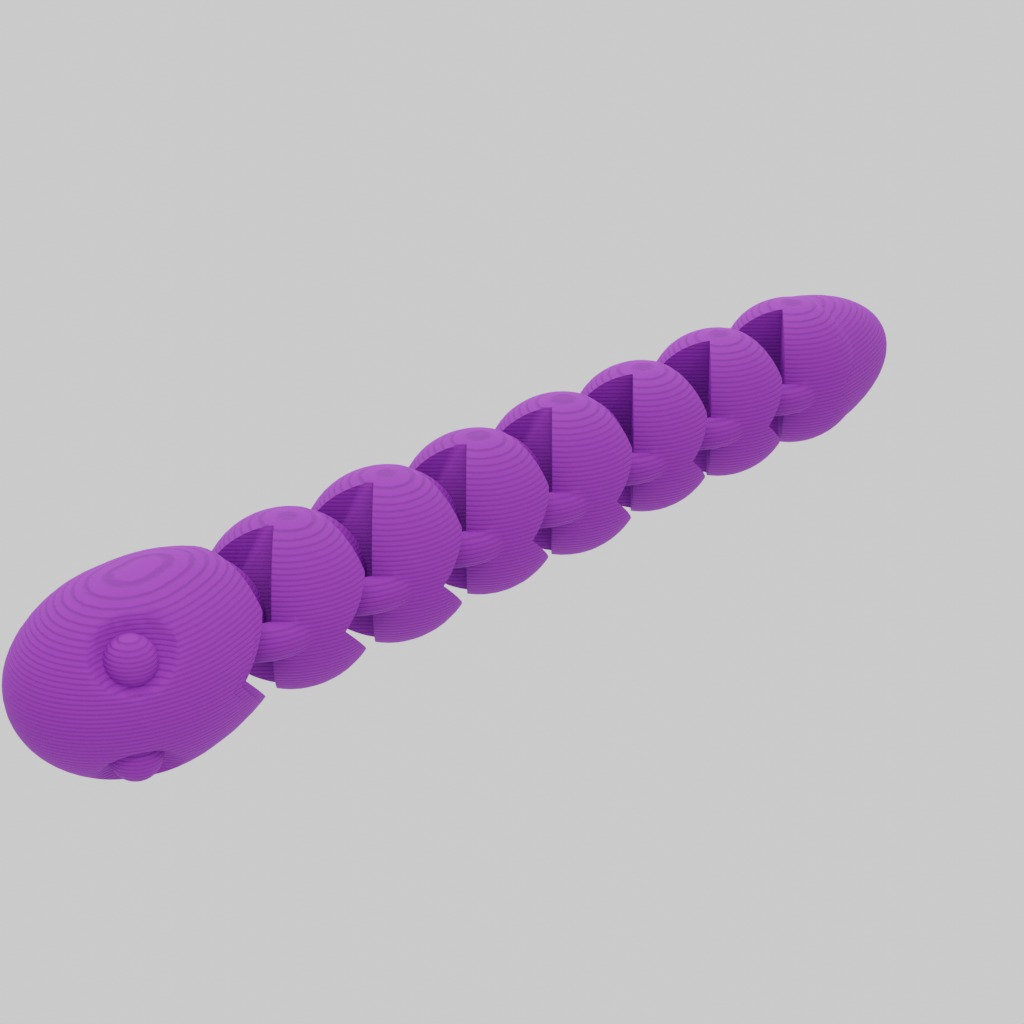
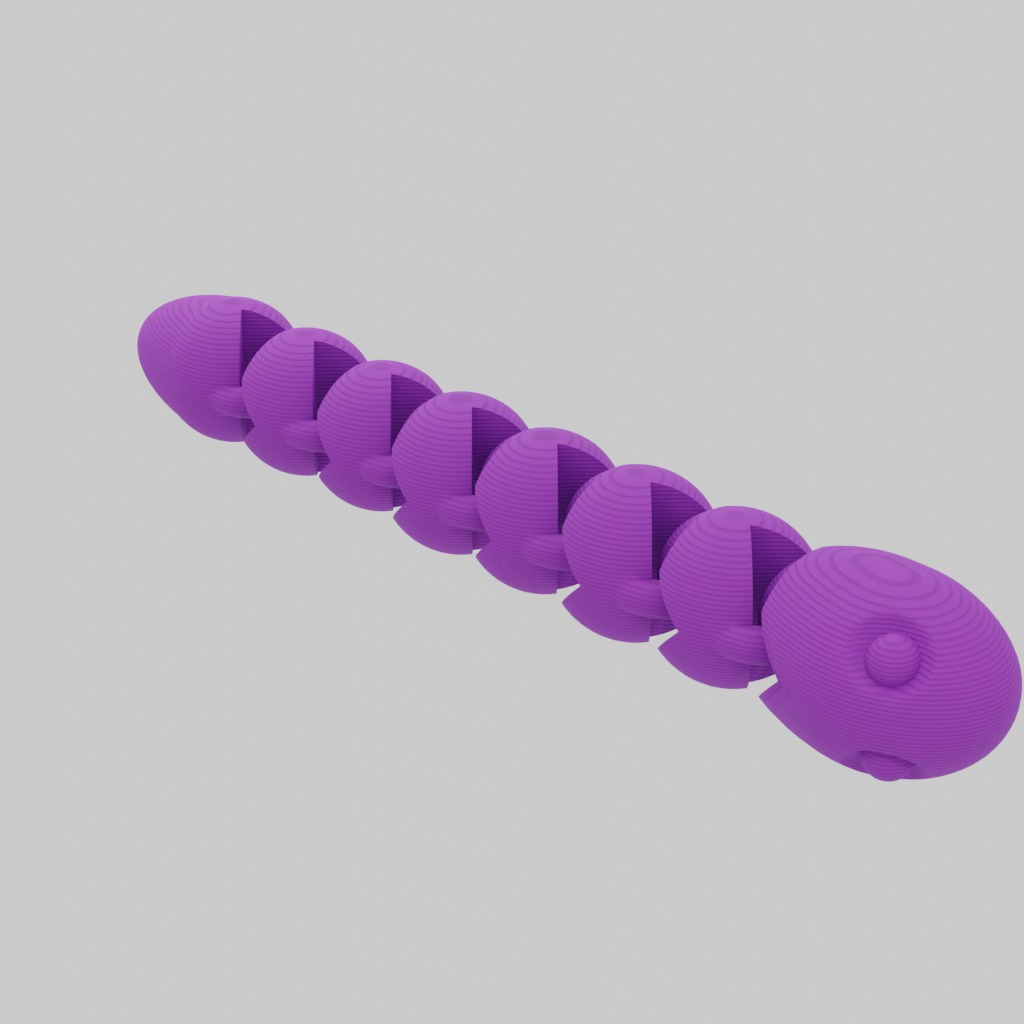
fix: correct orientations for 5 products using MakerWorld reference
- rocktopus: ry=180 reveals The Rock face toward camera
- cute-octopus: ry=180, rz=180 — best centered view
- cute-snakey: ry=0, rz=180 — distinct head clearly visible
- octopus-long-tentacles: rx=0 (flat), rz=90 — top-down spread view
- flex-slug: ry=0, rz=90 — side profile with antennae visible

Changed region(s): [[0.0, 0.2812, 1.0, 0.7812]]

diff --git a/scripts/render-previews-ry.py b/scripts/render-previews-ry.py
@@ -1,0 +1,80 @@
+"""
+Render a single STL at all 4 Z rotations with a specified rot_y.
+Usage: blender --background --python render-previews-ry.py -- STL OUT_DIR ROT_X ROT_Y SUFFIX
+"""
+import sys, math, os, bpy
+
+argv = sys.argv
+after = argv[argv.index("--") + 1:] if "--" in argv else []
+stl_path = after[0]
+out_dir   = after[1]
+rot_x     = float(after[2])
+rot_y     = float(after[3])
+suffix    = after[4] if len(after) > 4 else ""
+hex_color = "#2563EB"
+
+def hex_to_linear(h):
+    h = h.lstrip('#')
+    r, g, b = [int(h[i:i+2], 16)/255 for i in (0, 2, 4)]
+    def srgb(c):
+        return c/12.92 if c <= 0.04045 else ((c+0.025)/1.025)**2.4
+    return (srgb(r), srgb(g), srgb(b), 1.0)
+
+scene = bpy.context.scene
+scene.render.engine           = 'CYCLES'
+scene.cycles.samples          = 32
+scene.render.resolution_x     = 256
+scene.render.resolution_y     = 256
+scene.render.resolution_percentage = 100
+scene.render.image_settings.file_format = 'JPEG'
+scene.render.image_settings.quality     = 85
+bpy.data.worlds['World'].node_tree.nodes['Background'].inputs[0].default_value = (0.95, 0.95, 0.95, 1)
+bpy.data.worlds['World'].node_tree.nodes['Background'].inputs[1].default_value = 3.0
+
+slug = os.path.splitext(os.path.basename(stl_path))[0]
+
+for rot_z in [0, 90, 180, 270]:
+    bpy.ops.object.select_all(action='SELECT')
+    bpy.ops.object.delete(use_global=False)
+
+    bpy.ops.import_mesh.stl(filepath=stl_path)
+    obj = bpy.context.selected_objects[0]
+    bpy.context.view_layer.objects.active = obj
+
+    obj.rotation_euler = (math.radians(rot_x), math.radians(rot_y), math.radians(rot_z))
+    bpy.ops.object.transform_apply(location=False, rotation=True, scale=True)
+    bpy.ops.object.origin_set(type='ORIGIN_GEOMETRY', center='BOUNDS')
+    obj.location = (0, 0, 0)
+    dim = max(obj.dimensions)
+    if dim > 0:
+        obj.scale = (1/dim, 1/dim, 1/dim)
+    bpy.ops.object.transform_apply(scale=True)
+
+    mat = bpy.data.materials.new(name="P")
+    mat.use_nodes = True
+    bsdf = mat.node_tree.nodes.get("Principled BSDF")
+    bsdf.inputs['Base Color'].default_value = hex_to_linear(hex_color)
+    bsdf.inputs['Roughness'].default_value  = 0.4
+    obj.data.materials.clear()
+    obj.data.materials.append(mat)
+
+    cam_data = bpy.data.cameras.new("Cam")
+    cam_data.lens = 100
+    cam_obj = bpy.data.objects.new("Cam", cam_data)
+    scene.collection.objects.link(cam_obj)
+    cam_obj.location = (1.8, -1.8, 1.3)
+    scene.camera = cam_obj
+    con = cam_obj.constraints.new(type='TRACK_TO')
+    con.target = obj
+    con.track_axis = 'TRACK_NEGATIVE_Z'
+    con.up_axis    = 'UP_Y'
+    bpy.context.view_layer.update()
+
+    bpy.ops.object.light_add(type='SUN', location=(3, -3, 5))
+    bpy.context.active_object.data.energy = 4.0
+
+    label = f"{suffix}-z{rot_z}" if suffix else f"z{rot_z}"
+    out = os.path.join(out_dir, f"{slug}-{label}.jpg")
+    scene.render.filepath = out
+    bpy.ops.render.render(write_still=True)
+    print(f"[preview] {out}")
